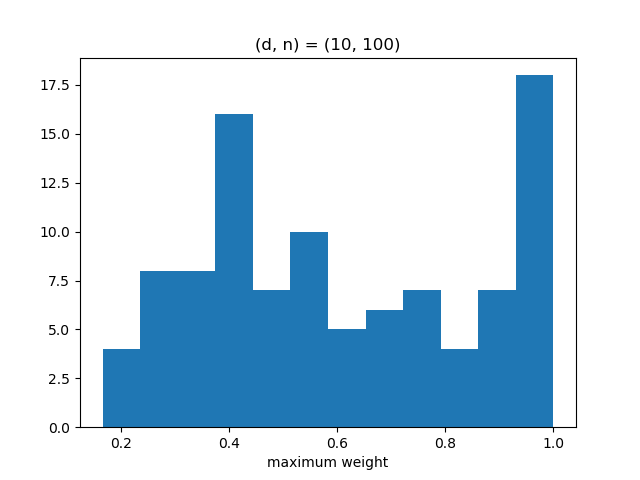
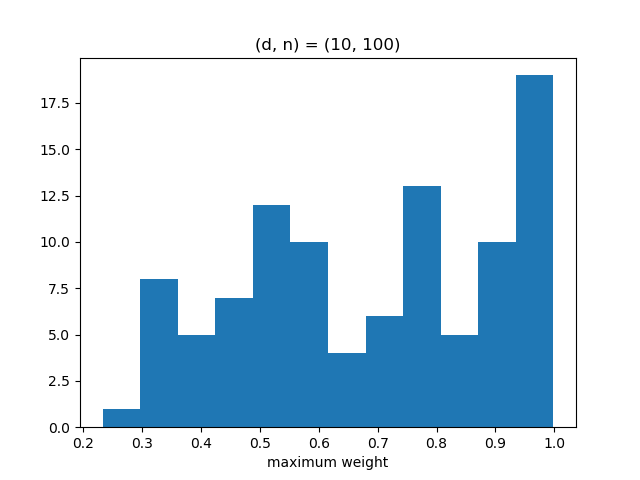
fixed plot.py's t, signal shape difference issue

diff --git a/python/qipf.py b/python/qipf.py
@@ -16,12 +16,13 @@ def collapse(n, d): # n -> number of particles, d -> dimension of the problem
     prior = sm.Simulation(algorithm = lambda *args: np.random.multivariate_normal(mu, sigma))
     f = lambda x: x
     G = np.identity(d)
-    dynamic_model = sm.GaussianErrorModel(size = 3, prior = prior, f = f, G = G, mu = mu, sigma = sigma)
+    dynamic_model = sm.GaussianErrorModel(size = 4, prior = prior, f = f, G = G, mu = mu, sigma = sigma)
 
     # create a measurement_model
+    rho = 5
     f = lambda x: x
-    G = np.identity(d)
-    measurement_model = sm.GaussianObservationModel(conditions = dynamic_model.sims, f = f, G = G, mu = mu, sigma = 10*sigma)
+    G = rho*np.identity(d)
+    measurement_model = sm.GaussianObservationModel(conditions = dynamic_model.sims, f = f, G = G, mu = mu, sigma = sigma)
 
     # create a ModelPF object to feed the filter
     model = fl.ModelPF(dynamic_model = dynamic_model, measurement_model = measurement_model)
@@ -33,8 +34,9 @@ def collapse(n, d): # n -> number of particles, d -> dimension of the problem
     def grad(x, y, x_0):
         return (x - x_0).T + (x - y).T
 
-    L = np.sqrt(0.5)*np.identity(d)
-    H = 2*np.identity(d)
+    L = np.sqrt(1.0/(1 + rho**2))*np.identity(d)
+    H = (1 + rho**2)*np.identity(d)
+
     def hessian(x, y, x_0):
         return H
 
@@ -50,8 +52,9 @@ def collapse(n, d): # n -> number of particles, d -> dimension of the problem
     #plot.SignalPlotter(signals = [signal, pf.hidden_trajectory, hidden]).plot_signals( labels = ['observation', 'hidden', 'original'],\
     #                    coords_to_plot = [9], show = True)
     return np.max(pf.weights)
+
 max_w = []
-n, d, itr = 100, 10, 100
+n, d, itr = 100, 100, 100
 for i in range(itr):
     print('iteration = {}:'.format(i))
     max_w.append(collapse(n,d))

diff --git a/python/test.py b/python/test.py
@@ -19,9 +19,10 @@ def collapse(n, d): # n -> number of particles, d -> dimension of the problem
     dynamic_model = sm.GaussianErrorModel(size = 4, prior = prior, f = f, G = G, mu = mu, sigma = sigma)
 
     # create a measurement_model
+    rho = 5
     f = lambda x: x
-    G = np.identity(d)
-    measurement_model = sm.GaussianObservationModel(conditions = dynamic_model.sims, f = f, G = G, mu = mu, sigma = 10*sigma)
+    G = rho*np.identity(d)
+    measurement_model = sm.GaussianObservationModel(conditions = dynamic_model.sims, f = f, G = G, mu = mu, sigma = sigma)
 
     # create a ModelPF object to feed the filter
     model = fl.ModelPF(dynamic_model = dynamic_model, measurement_model = measurement_model)
@@ -33,7 +34,7 @@ def collapse(n, d): # n -> number of particles, d -> dimension of the problem
     pf = fl.ParticleFilter(model, n)
     hidden = model.hidden_state.generate_path()
     signal = model.observation.generate_path()
-    weights = pf.update(signal, threshold_factor = 0.0, method = 'mode')
+    weights = pf.update(signal, threshold_factor = 0.0, method = 'mean')
     """
     print('hidden', pf.hidden_trajectory)
     print('observation', signal)
@@ -43,7 +44,7 @@ def collapse(n, d): # n -> number of particles, d -> dimension of the problem
     return np.max(pf.weights)
 
 max_w = []
-n, d, itr = 100, 10, 200
+n, d, itr = 100, 10, 100
 for i in range(itr):
     print('iteration = {}:'.format(i))
     max_w.append(collapse(n,d))

diff --git a/python/plot.py b/python/plot.py
@@ -67,7 +67,7 @@ class SignalPlotter(object):
         # plot self.signals against time
         if self.dimension == 1:
             ax = fig.add_subplot(111)
-            t = np.linspace(self.start_time, self.start_time + (len(self.signals[0])-1)*self.time_step, num = len(self.signals[0]))
+            t = np.linspace(self.start_time, self.start_time + (len(self.signals[0])-1)*self.time_step, num = min(max_pts, len(self.signals[0])))
             for i, signal in enumerate(self.signals):
                 signal = ut.Picker(signal).equidistant(objs_to_pick = max_pts)
                 ax.plot(t, signal, label = labels[i], linestyle = line_styles[i])
@@ -93,7 +93,7 @@ class SignalPlotter(object):
         # plot the required coordinates separately against time
         elif self.dimension > 3 or coords_to_plot != []:
             ax, num_rows = [], len(coords_to_plot)
-            t = np.linspace(self.start_time, self.start_time + (len(self.signals[0])-1)*self.time_step, num = len(self.signals[0]))
+            t = np.linspace(self.start_time, self.start_time + (len(self.signals[0])-1)*self.time_step, min(max_pts, len(self.signals[0])))
 
             for i in range(num_rows):
                 ax.append(fig.add_subplot(num_rows, 1, i+1))

diff --git a/python/filter.py b/python/filter.py
@@ -227,7 +227,7 @@ class QuadraticImplicitPF(ParticleFilter):
 
                 # minimize F_k
                 res = opt.minimize(F_k, self.particles[k], method = 'BFGS', jac = grad)
-                mu, phi_k = res.x, res.fun
+                mu, phi_k= res.x, res.fun
 
                 # compute position of k-th particle
                 xi = np.random.multivariate_normal(self.std_mean, self.std_cov)
@@ -235,8 +235,8 @@ class QuadraticImplicitPF(ParticleFilter):
 
                 # compute weight of k-th particle
                 a = self.particles[k] - mu
-                F_0 = phi_k + 0.5*np.dot(a.T, np.dot(hessian(mu), a))
-                self.weights[k] *= np.exp(F_0-F_k(self.particles[k]))
+                #F_0 = phi_k + 0.5*np.dot(a.T, np.dot(hessian(mu), a))
+                self.weights[k] *= np.exp(0.5*np.dot(xi.T, xi)-F_k(self.particles[k]))
         #print('w={}'.format(self.weights[0]))
         # normalize weights
         self.weights /= self.weights.sum()
